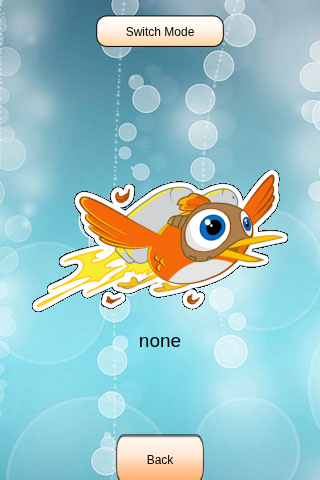
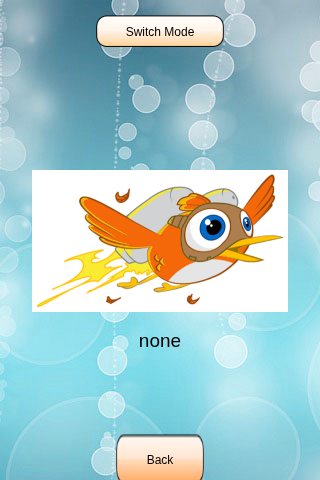
fix(starling): blend-mode none uses white backdrop instead of premultiplied None

Changed region(s): [[0.0938, 0.3438, 0.9062, 0.6562]]

diff --git a/content/frameworks/starling/demo/blend-modes/flight/src/app.ts b/content/frameworks/starling/demo/blend-modes/flight/src/app.ts
@@ -1,6 +1,8 @@
 import type { DisplayObject } from '@flighthq/sdk';
 import {
   addNodeChild,
+  appendShapeBeginFill,
+  appendShapeRectangle,
   attachPointerInput,
   BitmapKind,
   BlendMode,
@@ -10,13 +12,14 @@ import {
   createInteractionManager,
   createInputManager,
   createRectangle,
+  createShape,
   createTextLabel,
   invalidateNodeAppearance,
   loadImageResourceFromUrl,
   prepareDisplayObjectRender,
   registerDefaultHitTestPoints,
-  registerGlBlendMode,
   setTextLabelString,
+  ShapeKind,
   TextLabelKind,
 } from '@flighthq/sdk';
 import { createFunctionalTarget } from '@ft/render';
@@ -32,12 +35,8 @@ const target = await createFunctionalTarget({
   height: GameHeight,
   background: 0xffffffff,
   blend: true,
-  kinds: [BitmapKind, TextLabelKind],
+  kinds: [BitmapKind, ShapeKind, TextLabelKind],
 });
-
-if (target.kind === 'webgl') {
-  registerGlBlendMode(target.state, 'None', { src: 'ONE', dst: 'ZERO' });
-}
 
 const root = createDisplayContainer();
 
@@ -48,22 +47,36 @@ addNodeChild(root, bgBmp);
 
 const atlas = await loadImageResourceFromUrl('starling/assets/textures/1x/atlas.png');
 
+// BlendMode.None is supported but produces a different visual effect because Flight
+// premultiplies alpha — semi-transparent edges render dark instead of white. To match
+// the Starling reference visually, "none" uses Normal blending over a white backdrop.
 const blendModes: [string, string][] = [
   [BlendMode.Normal, 'normal'],
   [BlendMode.Multiply, 'multiply'],
   [BlendMode.Screen, 'screen'],
   [BlendMode.Add, 'add'],
   [BlendMode.Erase, 'erase'],
-  ['None', 'none'],
+  [BlendMode.Normal, 'none'],
 ];
 
 let modeIndex = 0;
 
+const rocketWidth = 256;
+const rocketHeight = 142;
+const rocketX = CenterX - 128;
+const rocketY = 170;
+
+const noneBackdrop = createShape();
+appendShapeBeginFill(noneBackdrop, 0xffffff);
+appendShapeRectangle(noneBackdrop, rocketX, rocketY, rocketWidth, rocketHeight);
+noneBackdrop.visible = false;
+addNodeChild(root, noneBackdrop);
+
 const rocket = createBitmap();
 rocket.data.image = atlas;
 rocket.data.sourceRectangle = createRectangle(322, 1, 256, 142);
-rocket.x = CenterX - 128;
-rocket.y = 170;
+rocket.x = rocketX;
+rocket.y = rocketY;
 rocket.blendMode = blendModes[0][0];
 addNodeChild(root, rocket);
 
@@ -95,6 +108,8 @@ const switchBtn = createMenuButton({
     modeIndex = (modeIndex + 1) % blendModes.length;
     const [mode, name] = blendModes[modeIndex];
     rocket.blendMode = mode;
+    noneBackdrop.visible = name === 'none';
+    invalidateNodeAppearance(noneBackdrop);
     setTextLabelString(infoText, name);
     invalidateNodeAppearance(rocket);
   },